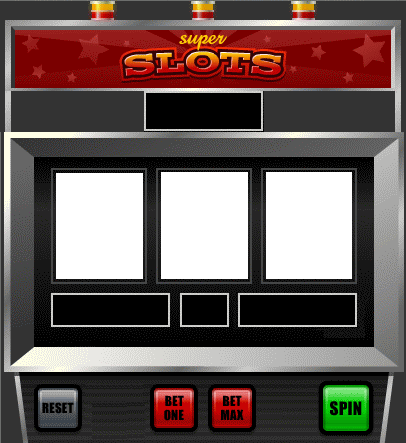
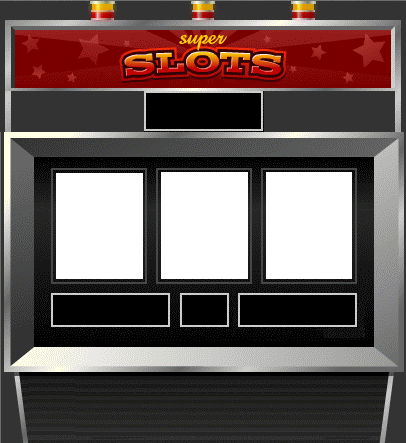
added all buttons

Changed region(s): [[0.3547, 0.851, 0.6502, 0.9977], [0.0591, 0.851, 0.3251, 0.9977], [0.7685, 0.851, 0.9458, 0.9977]]

diff --git a/comp206-slotmachineDemo/Script/game.js b/comp206-slotmachineDemo/Script/game.js
@@ -1,12 +1,12 @@
-var canvas;
-var stage: createjs.Stage;
+var canvas;
+var stage;
 //game Objects
-var game: createjs.Container;
-var background: createjs.Bitmap;
-var spinButton: createjs.Bitmap;
-var betMaxButton: createjs.Bitmap;
-var betOneButton: createjs.Bitmap;
-var resetButton: createjs.Bitmap;
+var game;
+var background;
+var spinButton;
+var betMaxButton;
+var betOneButton;
+var resetButton;
 function init() {
     canvas = document.getElementById("canvas");
     stage = new createjs.Stage(canvas);
@@ -28,7 +28,7 @@ function spinReels() {
     //spin reels code here
     console.log("spin button clicked");
 }
-function createUI(): void{
+function createUI() {
     //instantiate my background
     background = new createjs.Bitmap("assets/images/slot-machine.png");
     game.addChild(background);
@@ -48,11 +48,11 @@ function createUI(): void{
     betOneButton = new createjs.Bitmap("assets/images/betOneButton.png");
     betOneButton.x = 180;
     betOneButton.y = 391;
-    game.addChild(betOneButton)
+    game.addChild(betOneButton);
     resetButton = new createjs.Bitmap("assets/images/reset-button.png");
     resetButton.x = 55;
     resetButton.y = 388;
-    game.addChild(resetButton)
+    game.addChild(resetButton);
 }
 function main() {
     //instantiate my game container

diff --git a/comp206-slotmachineDemo/index.html b/comp206-slotmachineDemo/index.html
@@ -11,7 +11,7 @@
 </head>
 <body onload="init();">
     <!-- Canvas  where the game will happen-->
-        <canvas id="canvas" width="640" height="480"></canvas>
+        <canvas id="canvas" width="450" height="450"></canvas>
 
 
 
